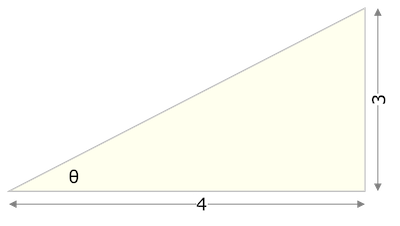
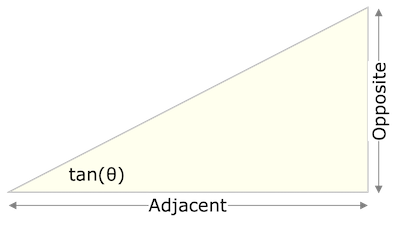
Update sine cosine page

diff --git a/01-tools/01-sine-cosine/index.html b/01-tools/01-sine-cosine/index.html
@@ -32,7 +32,8 @@
           Or maybe you were just in the room when mathematics was being taught&hellip;
         </p>
         <p>
-          However, the heart of the matter is that this right-angled triangle you learnt about in school is simply a tool for
+          However, the heart of the matter is that this right-angled triangle you learnt about in school is simply a
+          tool for
           understanding rotation and is constructed inside a circle where the triangle's longest side is the circle's
           radius.
         </p>
@@ -42,14 +43,15 @@
           positive X axis.
         </p>
         <p>
-          Now, as point `C` rotates in an anti-clockwise direction, we can see that a right-angled triangle is formed
-          within the circle whose width is the distance between point `C` and some point `W` projected onto the Y axis,
-          and whose height is the distance between point `C` and some point `H` projected onto the X axis.
+          As the radius of the circle slowly rotates, the point `C` on the circumference forms the apex of a
+          right-angled
+          triangle with the X and Y axes where the height is the line `CH` and the width is the line `CW`.
         </p>
         <p>
-          As point `C` moves around the circle, point `W` moves up and down the Y axis, and point `H` moves left and
-          right along the X axis. The key point to understand here is that the height (line `CH`) and width (line `CW`)
-          change in a fixed ratio that is directly proportional to the angle of rotation.
+          As point `C` moves around the circle, the point `W` moves up and down the Y axis, and point `H` moves left and
+          right along the X axis.
+          The key point to understand here is that the height (line `CH`) and width (line `CW`) change in a fixed ratio
+          that is exactly proportional to the angle of rotation.
         </p>
         <p>
           The graphs to the right of and below the circle trace a wave shape that describes how the height and width of
@@ -73,81 +75,155 @@
       <td style="vertical-align: top;">
         <div id="cosineBox" class="cosineBox"></div>
       </td>
-      <td class="description">
+      <td class="description" style="vertical-align: top;">
         <h2>Trigonometric Functions</h2>
         <p>
-          If we divide the height `CH` or the width `CW` of the triangle by the length of the radius `OC`, we obtain a
-          fraction that exactly represents the angle of rotation. Also this relationship is a two-way street. If we know
-          the angle, we can work out the ratio, and if we know the ratio, we can work out the angle.
+          The trigonometric functions such as "sine", "cosine" and "tangent" are simply the names given to the ratios of
+          the lengths of the sides inside this triangle.
         </p>
         <p>
-          The trigonometric functions are simply the names given to these ratios.
+          In all of these examples, we have arbitrarily defined our circle to have a radius of `1`, so calculations
+          involving the length of the hypotenuse disappear.
+        </p>
+        <p>
+          <b>IMPORTANT</b><br>
+          Always remember that first and foremost, these trigonometric functions describe rotation around a circle with
+          a radius of `1`.
+          The triangles we talk about here exist simply as a tool for calculating how the position of a point rotating
+          around the circumference of the circle changes relative to the X and Y axes.
         </p>
 
         <h3>Sine</h3>
-        <p>"Sine" is the name given to the ratio of the height `CH` of the triangle to the radius `OC` of the
-          circle. This value varies in the range `-1..+1`.
+        <p>
+          "Sine" is name given to the ratio of the triangle's height (`CH`) to its radius (`OC`).
         </p>
         <p>
-          There is an exact relationship between the angle &theta; and the ratio of height to radius.
-          So when we use the function `sin(&theta;)`, we are really calculating
-          <math xmlns="http://www.w3.org/1998/Math/MathML">
-            <mfrac>
-              <mtext>height</mtext>
-              <mtext>radius</mtext>
-            </mfrac>
-          </math>
+          This ratio varies from `-1` to `+1`.
         </p>
+        <table>
+          <tr>
+            <td>
+              <img src="/img/sin-theta.png" />
+            </td>
+            <td style="vertical-align: top;">
+              <p>
+                So when we calculate
+                <math xmlns="http://www.w3.org/1998/Math/MathML">
+                  <mfrac>
+                    <mtext>height</mtext>
+                    <mtext>radius</mtext>
+                  </mfrac>
+                </math>
+                that ratio is known as the sine of the angle `&theta;` or `sin(&theta;)`.
+              </p>
+              <p>
+                Or, to use the more conventional names
+                <math xmlns="http://www.w3.org/1998/Math/MathML">
+                  <mrow>
+                    <mo>sin(&theta;) =</mo>
+                    <mfrac>
+                      <mtext>opposite</mtext>
+                      <mtext>hypotenuse</mtext>
+                    </mfrac>
+                  </mrow>
+                </math>
+              </p>
+            </td>
+          </tr>
+        </table>
         <p>
-          Since we have arbitrarily defined our circle to have a radius of one, the sine of the angle is simply the
-          height of the triangle.<br>
-        </p>
-        <p>
-          Similarly, if we know the sine value of an angle, we can turn that fraction back into an angle using the
+          Therefore, if we know the sine of an angle, we can turn that fraction back into an angle using the
           inverse sine function: `&theta; = sin^-1 (value)`. (Also written `arcsin()`)
         </p>
-
+      </td>
+    </tr>
+    <tr>
+      <td class="description" colspan="2">
         <h3>Cosine</h3>
-        <p>"Cosine" is the name given to the ratio of the width `CW` of the triangle to the radius `OC` of the
-          circle. This value varies in the range `-1..+1`.
+        <p>
+          "Cosine" is name given to the ratio of the triangle's width (`CW`) to its radius (`OC`).
         </p>
         <p>
-          There is an exact relationship between the angle &theta; and the ratio of width to radius.
-          So when we use the function `cos(&theta;)`, we are really calculating
-          <math xmlns="http://www.w3.org/1998/Math/MathML">
-            <mfrac>
-              <mtext>width</mtext>
-              <mtext>radius</mtext>
-            </mfrac>
-          </math>
+          This ratio varies from `-1` to `+1`.
         </p>
-        <p>
-          Since we have arbitrarily defined our circle to have a radius of one, the cosine of the angle is simply the
-          width of the triangle.<br>
-        </p>
-        <p>
-          Similarly, if we know the cosine value of an angle, we can turn that fraction back into an angle using the
-          inverse cosine function: `&theta; = cos^-1 (value)`. (Also written `arccos()`)
-        </p>
+        <table>
+          <tr>
+            <td>
+              <img src="/img/cos-theta.png" />
+            </td>
+            <td style="vertical-align: top;">
+              <p>
+                So when we calculate
+                <math xmlns="http://www.w3.org/1998/Math/MathML">
+                  <mfrac>
+                    <mtext>width</mtext>
+                    <mtext>radius</mtext>
+                  </mfrac>
+                </math>
+                that ratio is known as the cosine of the angle `&theta;` or `cos(&theta;)`.
+              </p>
+              <p>
+                Or, to use the more conventional names
+                <math xmlns="http://www.w3.org/1998/Math/MathML">
+                  <mrow>
+                    <mo>cos(&theta;) =</mo>
+                    <mfrac>
+                      <mtext>adjacent</mtext>
+                      <mtext>hypotenuse</mtext>
+                    </mfrac>
+                  </mrow>
+                </math>
+              </p>
+              <p>
+                Therefore, if we know the cosine of an angle, we can turn that fraction back into an angle using the
+                inverse cosine function: `&theta; = cos^-1 (value)`. (Also written `arccos()`)
+              </p>
+            </td>
+          </tr>
+        </table>
 
         <h3>Tangent</h3>
         <p>
-          Lastly, "tangent" is the name given to the ratio of the triangle's height `CH` to its width `CW`. The tangent
-          value varies in the range `-&infin;..+&infin;`.
+          Lastly, "tangent" is the name given to the ratio of the triangle's height `CH` to its width `CW`.
         </p>
         <p>
-          If we know the angle &theta;, then the value known as `tan(&theta;)` can be obtained by calculating
-          <math xmlns="http://www.w3.org/1998/Math/MathML">
-            <mfrac>
-              <mtext>height</mtext>
-              <mtext>width</mtext>
-            </mfrac>
-          </math>
+          The tangent value varies from `-&infin;` to `+&infin;`.
         </p>
-        <p>
-          Similarly, if we know the tangent value of an angle, we can turn that value back into an angle using the
-          inverse tangent function: `&theta; = tan^-1(value)` (Also written `arctan()`)
-        </p>
+        <table>
+          <tr>
+            <td>
+              <img src="/img/tan-theta.png" />
+            </td>
+            <td class="description" style="vertical-align: top;">
+              <p>
+                So when we calculate
+                <math xmlns="http://www.w3.org/1998/Math/MathML">
+                  <mfrac>
+                    <mtext>height</mtext>
+                    <mtext>width</mtext>
+                  </mfrac>
+                </math>
+                that ratio is known as the tangent of the angle `&theta;` or `tan(&theta;)`.
+              </p>
+              <p>
+                Or, to use the more conventional names
+                <math xmlns="http://www.w3.org/1998/Math/MathML">
+                  <mrow>
+                    <mo>cos(&theta;) =</mo>
+                    <mfrac>
+                      <mtext>opposite</mtext>
+                      <mtext>adjacent</mtext>
+                    </mfrac>
+                  </mrow>
+                </math>
+              </p>
+              <p>
+                Therefore, if we know the tangent of an angle, we can turn that number back into an angle using the
+                inverse tangent function: `&theta; = tan^-1 (value)`. (Also written `arctan()`)
+              </p>
+            </td>
+          </tr>
+        </table>
       </td>
     </tr>
   </table>

diff --git a/01-tools/10-complex-nums/index.html b/01-tools/10-complex-nums/index.html
@@ -132,7 +132,7 @@
           </tr>
           <tr>
             <td>
-              <img src="/img/tan-theta.png" />
+              <img src="/img/inv-tan-theta.png" />
             </td>
             <td>&nbsp;</td>
             <td style="vertical-align: top;">
